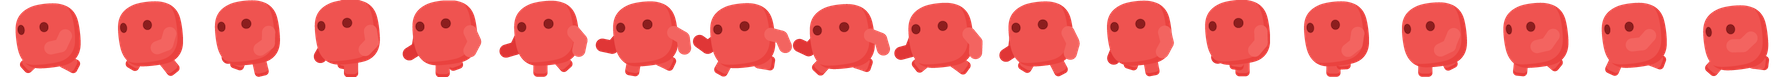
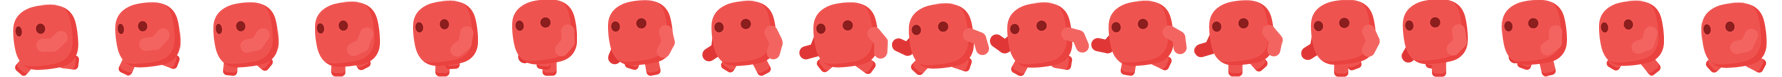
- Added more player spritesheets - Added PlayerState for future implementation

diff --git a/src/Game/GameObjects/Player.java b/src/Game/GameObjects/Player.java
@@ -10,17 +10,24 @@ public class Player extends GameObject {
     private final int START_POSITION = 200;
 
     // States
-    public final static int PLAYER_IDLING = 0;
-    public final static int PLAYER_RUNNING_RIGHT = 1;
-    public final static int PLAYER_RUNNING_LEFT = 2;
-    public final static int PLAYER_JUMPING = 3;
-    public final static int PLAYER_FALLING = 4;
+    public final static int PLAYER_IDLING_RIGHT = 0;
+    public final static int PLAYER_IDLING_LEFT = 1;
+    public final static int PLAYER_RUNNING_RIGHT = 2;
+    public final static int PLAYER_RUNNING_LEFT = 3;
+    public final static int PLAYER_JUMPING_RIGHT = 4;
+    public final static int PLAYER_JUMPING_LEFT = 5;
+    public final static int PLAYER_FALLING_RIGHT = 6;
+    public final static int PLAYER_FALLING_LEFT = 7;
 
     // Spritesheets
-    private SpriteSheet idleSpriteSheet;
-    private SpriteSheet rightRunSpriteSheet;
-    private SpriteSheet leftRunSpriteSheet;
-    private SpriteSheet jumpSpriteSheet;
+    private SpriteSheet idleRightSpriteSheet;
+    private SpriteSheet idleLeftSpriteSheet;
+    private SpriteSheet runRightSpriteSheet;
+    private SpriteSheet runLeftSpriteSheet;
+    private SpriteSheet jumpLeftSpriteSheet;
+    private SpriteSheet fallLeftSpriteSheet;
+    private SpriteSheet jumpRightSpriteSheet;
+    private SpriteSheet fallRightSpriteSheet;
 
     public Player(int x, int y) {
         super(x, y);
@@ -40,10 +47,9 @@ public class Player extends GameObject {
     }
 
     public void tick(GraphicsContext gc) {
-        setLastSpriteState(getCurrentSpriteState());
-        setCurrentSpriteState();
         handleVelocityX();
         handleVelocityY();
+        handleSpriteState();
         render(gc);
     }
 
@@ -61,31 +67,43 @@ public class Player extends GameObject {
         }
     }
 
-    private void setCurrentSpriteState() {
-        if (getVelocityY() < 0) {
-            setCurrentSpriteState(PLAYER_JUMPING);
-            setCurrentSpriteSheet(jumpSpriteSheet);
-        } else if (getVelocityY() > 0) {
-            setCurrentSpriteState(PLAYER_FALLING);
-            setCurrentSpriteSheet(jumpSpriteSheet);
-        } else if (getVelocityY() > 0) {
+    private void handleSpriteState() {
+        setLastSpriteState(getCurrentSpriteState());
+
+        if (getVelocityY() < 0 && getVelocityX() > 0 || getVelocityY() < 0 && getVelocityX() == 0) {
+            setCurrentSpriteState(PLAYER_JUMPING_RIGHT);
+            setCurrentSpriteSheet(jumpRightSpriteSheet);
+        } else if (getVelocityY() < 0 && getVelocityX() < 0) {
+            setCurrentSpriteState(PLAYER_JUMPING_LEFT);
+            setCurrentSpriteSheet(jumpLeftSpriteSheet);
+        }  else if (getVelocityY() > 0 && getVelocityX() > 0 || getVelocityY() > 0 && getVelocityX() == 0) {
+            setCurrentSpriteState(PLAYER_FALLING_RIGHT);
+            setCurrentSpriteSheet(fallRightSpriteSheet);
+        } else if (getVelocityY() > 0 && getVelocityX() < 0) {
+            setCurrentSpriteState(PLAYER_FALLING_LEFT);
+            setCurrentSpriteSheet(fallLeftSpriteSheet);
+        } else if (getVelocityX() > 0) {
             setCurrentSpriteState(PLAYER_RUNNING_RIGHT);
-            setCurrentSpriteSheet(rightRunSpriteSheet);
-        } else if (getVelocityY() < 0) {
+            setCurrentSpriteSheet(runRightSpriteSheet);
+        } else if (getVelocityX() < 0) {
             setCurrentSpriteState(PLAYER_RUNNING_LEFT);
-            setCurrentSpriteSheet(leftRunSpriteSheet);
+            setCurrentSpriteSheet(runLeftSpriteSheet);
         } else {
-            setCurrentSpriteState(PLAYER_IDLING);
-            setCurrentSpriteSheet(idleSpriteSheet);
+            setCurrentSpriteState(PLAYER_IDLING_RIGHT);
+            setCurrentSpriteSheet(idleRightSpriteSheet);
         }
     }
 
     @Override
     public void initializeSpriteSheets() {
-        idleSpriteSheet = new SpriteSheet("/Resources/player/idle.png", 12, 72, 76);
-        rightRunSpriteSheet = new SpriteSheet("/Resources/player/run_right.png", 18, 99, 77);
-        leftRunSpriteSheet = new SpriteSheet("/Resources/player/run_left.png", 18, 99, 77);
-        jumpSpriteSheet = new SpriteSheet("/Resources/player/jump.png", 2, 83, 78);
+        idleRightSpriteSheet = new SpriteSheet("/Resources/player/idle_right.png", 12, 72, 76);
+        idleLeftSpriteSheet = new SpriteSheet("/Resources/player/idle_left.png", 12, 72, 76);
+        runRightSpriteSheet = new SpriteSheet("/Resources/player/run_right.png", 18, 99, 77);
+        runLeftSpriteSheet = new SpriteSheet("/Resources/player/run_left.png", 18, 99, 77);
+        jumpRightSpriteSheet = new SpriteSheet("/Resources/player/jump_right.png", 1, 76, 77);
+        jumpLeftSpriteSheet = new SpriteSheet("/Resources/player/jump_left.png", 1, 76, 77);
+        fallRightSpriteSheet = new SpriteSheet("/Resources/player/fall_right.png", 1, 67, 77);
+        fallLeftSpriteSheet = new SpriteSheet("/Resources/player/fall_left.png", 1, 67, 77);
     }
 
     @Override

diff --git a/src/Game/GameObjects/PlayerState.java b/src/Game/GameObjects/PlayerState.java
@@ -1,0 +1,28 @@
+package Game.GameObjects;
+
+public enum PlayerState {
+    PLAYER_IDLING_RIGHT(0, true),
+    PLAYER_IDLING_LEFT(1, false),
+    PLAYER_RUNNING_RIGHT(2, true),
+    PLAYER_RUNNING_LEFT(3, false),
+    PLAYER_JUMPING_RIGHT(4, true),
+    PLAYER_JUMPING_LEFT(5, false),
+    PLAYER_FALLING_RIGHT(6, true),
+    PLAYER_FALLING_LEFT(7, false);
+
+    private int id;
+    private boolean isRight;
+
+    PlayerState(int id, boolean isRight){
+        this.id = id;
+        this.isRight = isRight;
+    }
+
+    public int getId() {
+        return id;
+    }
+
+    public boolean isRight() {
+        return isRight;
+    }
+}

diff --git a/src/Game/CollisionHandler.java b/src/Game/CollisionHandler.java
@@ -21,7 +21,7 @@ public class CollisionHandler {
         player.setVelocityY(player.getVelocityY() + 2);
 
         for (Tile tile : level.getTiles()) {
-            if (player.getBoundsBottom().intersects(tile.getBoundsTop()) && player.getCurrentSpriteState() != Player.PLAYER_JUMPING) {
+            if (player.getBoundsBottom().intersects(tile.getBoundsTop()) && player.getCurrentSpriteState() != Player.PLAYER_JUMPING_RIGHT && player.getCurrentSpriteState() != Player.PLAYER_JUMPING_LEFT) {
                 handleTileBottomCollision(tile.getY());
             }
 

diff --git a/src/Game/GameObjects/GameObject.java b/src/Game/GameObjects/GameObject.java
@@ -5,9 +5,6 @@ import javafx.scene.canvas.GraphicsContext;
 
 import java.awt.*;
 
-/**
- * Created by stgr99 on 07.02.2018.
- */
 public abstract class GameObject {
 
     private int x;
